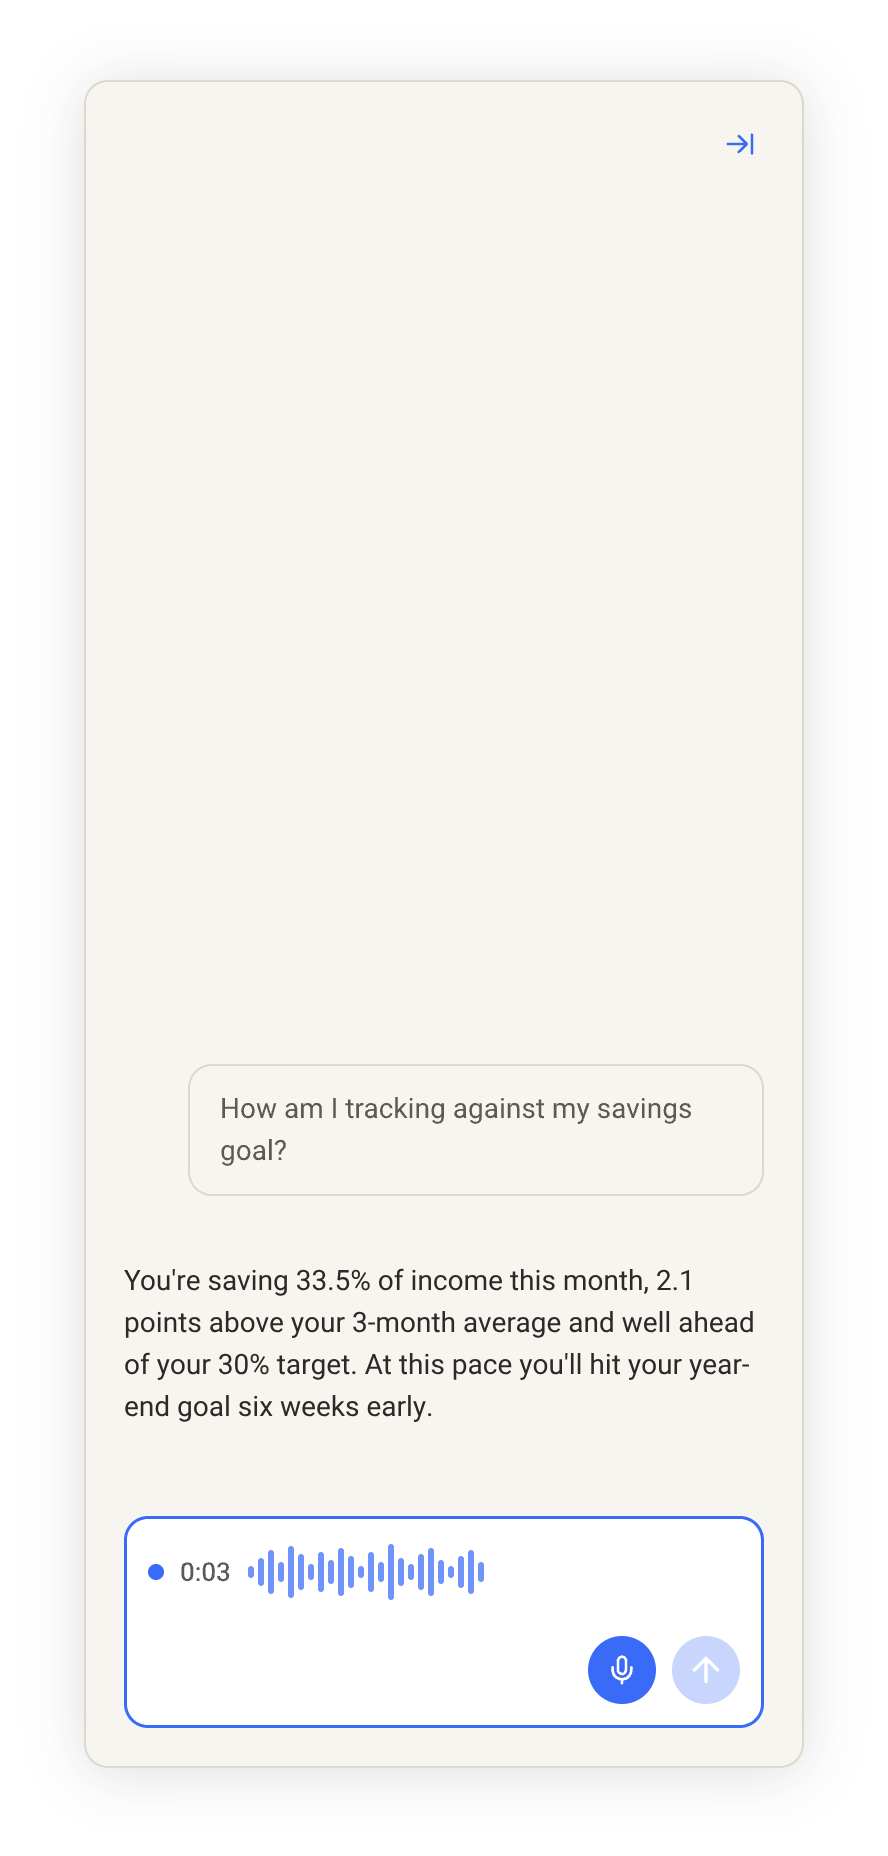
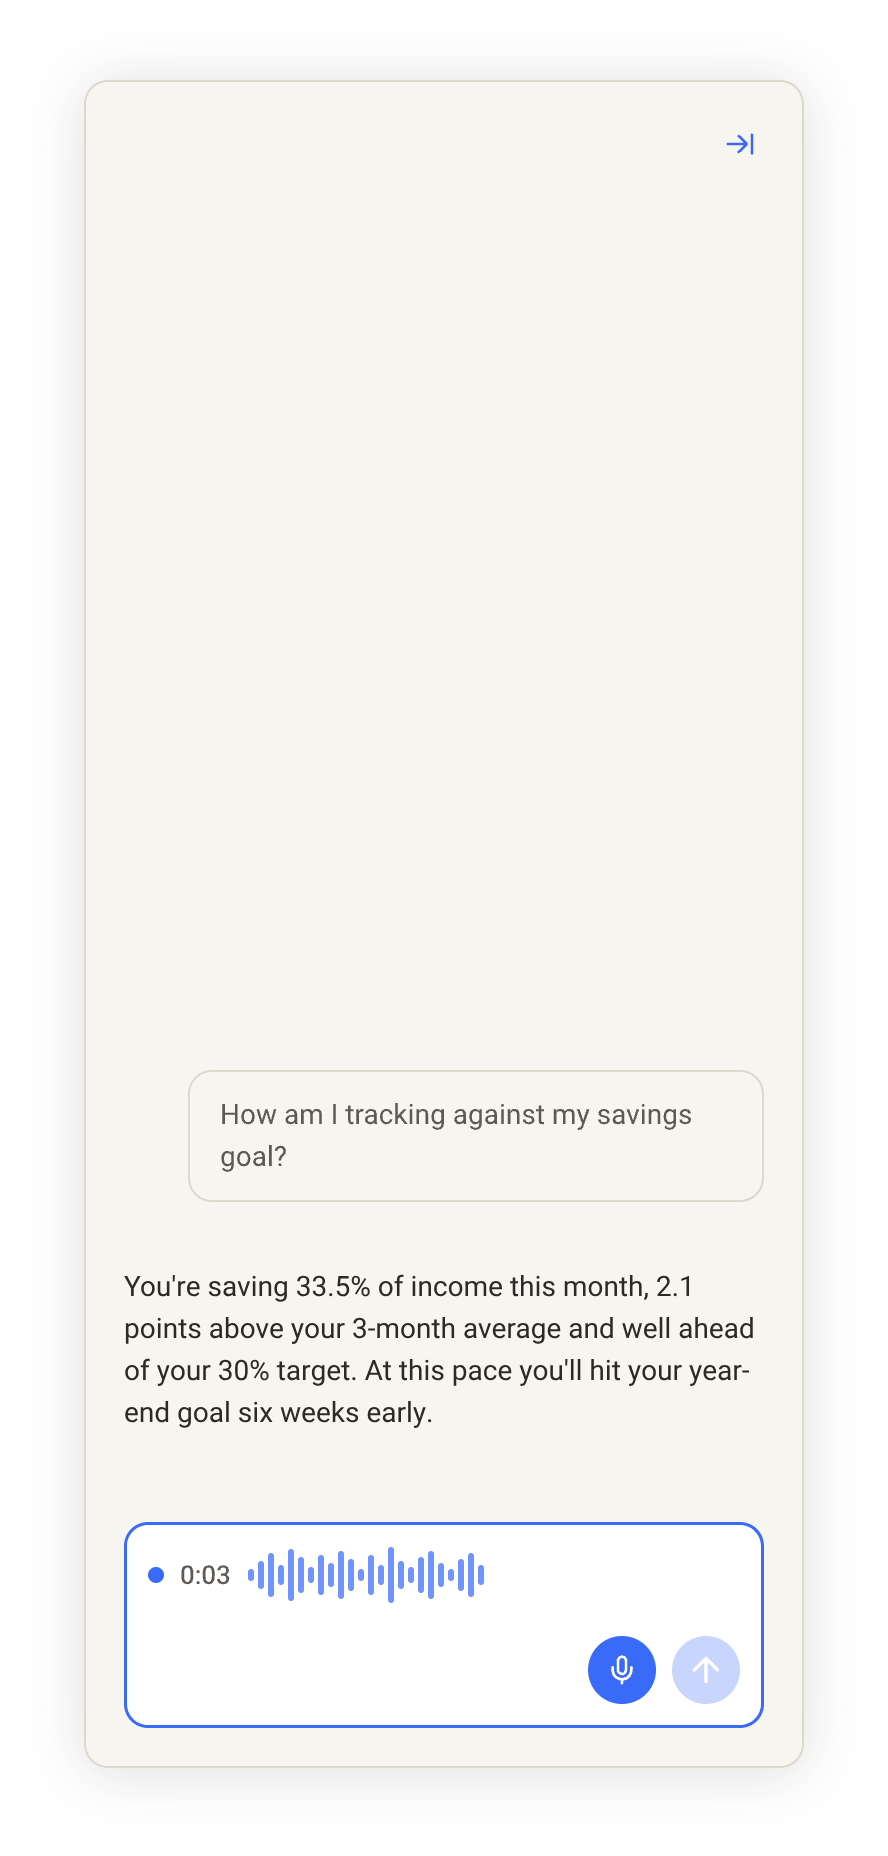
Fix 3px frame jitter (recording input height 106->103) and clipped Transcribing label

diff --git a/pencil/designs/4-approved/chat-prototype-with-voice/index.html b/pencil/designs/4-approved/chat-prototype-with-voice/index.html
@@ -251,13 +251,13 @@
 
       /* ============ recording screen: live waveform + timer ============ */
 
-      /* Covers the baked dot/timer/waveform (panel-relative y ~726..760). */
+      /* Covers the baked dot/timer/waveform (panel-relative y ~730..762). */
       .rec-zone {
         position: absolute;
         left: 68px;   /* 42 + 26 */
-        top: 770px;   /* 42 + 728 */
+        top: 771px;   /* 42 + 729 */
         width: 306px;
-        height: 36px;
+        height: 37px;
         background: #ffffff;
         display: flex;
         align-items: center;
@@ -302,13 +302,15 @@
 
       /* ============ transcribing screen: bouncing dots ============ */
 
-      /* Covers the three baked dots (panel-relative (32,741..746) 5x5, 13px pitch). */
+      /* Covers the baked dots AND the "Transcribing..." label so the
+         animated dots can't clip the label's first letter. Dots baked at
+         overlay (74,783) 5x5 pitch 13; label at (113,775) Heebo 14/21. */
       .trans-zone {
         position: absolute;
         left: 70px;   /* 42 + 28 */
-        top: 777px;   /* 42 + 735 */
-        width: 46px;
-        height: 18px;
+        top: 775px;   /* 42 + 733 */
+        width: 140px;
+        height: 22px;
         background: #ffffff;
         display: flex;
         align-items: center;
@@ -329,6 +331,14 @@
       }
       .trans-dots span:nth-child(2) { animation-delay: 0.15s; }
       .trans-dots span:nth-child(3) { animation-delay: 0.3s; }
+
+      .trans-label {
+        margin-left: 8px;
+        font-size: 14px;
+        line-height: 21px;
+        color: var(--text-placeholder);
+        white-space: nowrap;
+      }
 
       @keyframes dot-bounce {
         0%, 60%, 100% { transform: translateY(0); opacity: 0.55; }
@@ -456,6 +466,7 @@
           <section class="screen" data-state="transcribing">
             <div class="trans-zone">
               <div class="trans-dots"><span></span><span></span><span></span></div>
+              <div class="trans-label">Transcribing...</div>
             </div>
           </section>
 

diff --git a/pencil/designs/4-approved/chat-prototype-with-voice/align_assets.py b/pencil/designs/4-approved/chat-prototype-with-voice/align_assets.py
@@ -1,0 +1,68 @@
+#!/usr/bin/env python3
+"""Align the exported panel PNGs so the panel sits at identical pixel
+coordinates in every frame (fixes 1-2px content shift when stepping
+through prototype screens).
+
+The panel border/shadow is identical across all frames, so we
+cross-correlate the alpha channel of the border strips against a
+reference image and translate each frame to match.
+"""
+import sys
+from PIL import Image
+
+NAMES = [
+    "welcome", "prompt-selected", "conversation", "recording",
+    "transcribing", "transcribed", "thinking", "answer",
+]
+DIR = "assets"
+REF = "welcome"
+SEARCH = 4  # max shift in 2x pixels
+
+def alpha_strips(im):
+    """Left and top border strips of the alpha channel as flat lists."""
+    a = im.getchannel("A")
+    # left border strip: x 60..110, y 300..1500 (panel edge ~84)
+    left = a.crop((60, 300, 110, 1500))
+    # top border strip: x 300..600, y 60..110
+    top = a.crop((300, 60, 600, 110))
+    return left, top
+
+def strip_diff(ref_strip, img, box, dx, dy):
+    x0, y0, x1, y1 = box
+    moved = img.getchannel("A").crop((x0 + dx, y0 + dy, x1 + dx, y1 + dy))
+    rd = ref_strip.getdata()
+    md = moved.getdata()
+    return sum(abs(r - m) for r, m in zip(rd, md))
+
+def main():
+    write = "--write" in sys.argv
+    ref = Image.open(f"{DIR}/{REF}.png").convert("RGBA")
+    ref_left = ref.getchannel("A").crop((60, 300, 110, 1500))
+    ref_top = ref.getchannel("A").crop((300, 60, 600, 110))
+
+    for name in NAMES:
+        im = Image.open(f"{DIR}/{name}.png").convert("RGBA")
+        best = (0, 0)
+        best_score = None
+        for dx in range(-SEARCH, SEARCH + 1):
+            score_x = strip_diff(ref_left, im, (60, 300, 110, 1500), dx, 0)
+            if best_score is None or score_x < best_score:
+                best_score = score_x
+                best = (dx, best[1])
+        dx = best[0]
+        best_score = None
+        for dy in range(-SEARCH, SEARCH + 1):
+            score_y = strip_diff(ref_top, im, (300, 60, 600, 110), dx, dy)
+            if best_score is None or score_y < best_score:
+                best_score = score_y
+                best = (dx, dy)
+        dx, dy = best
+        print(f"{name:16s} offset vs {REF}: dx={dx} dy={dy}")
+        if write and (dx or dy):
+            out = Image.new("RGBA", im.size, (0, 0, 0, 0))
+            out.paste(im, (-dx, -dy))
+            out.save(f"{DIR}/{name}.png")
+            print(f"{'':16s} -> shifted by ({-dx},{-dy}) and saved")
+
+if __name__ == "__main__":
+    main()
